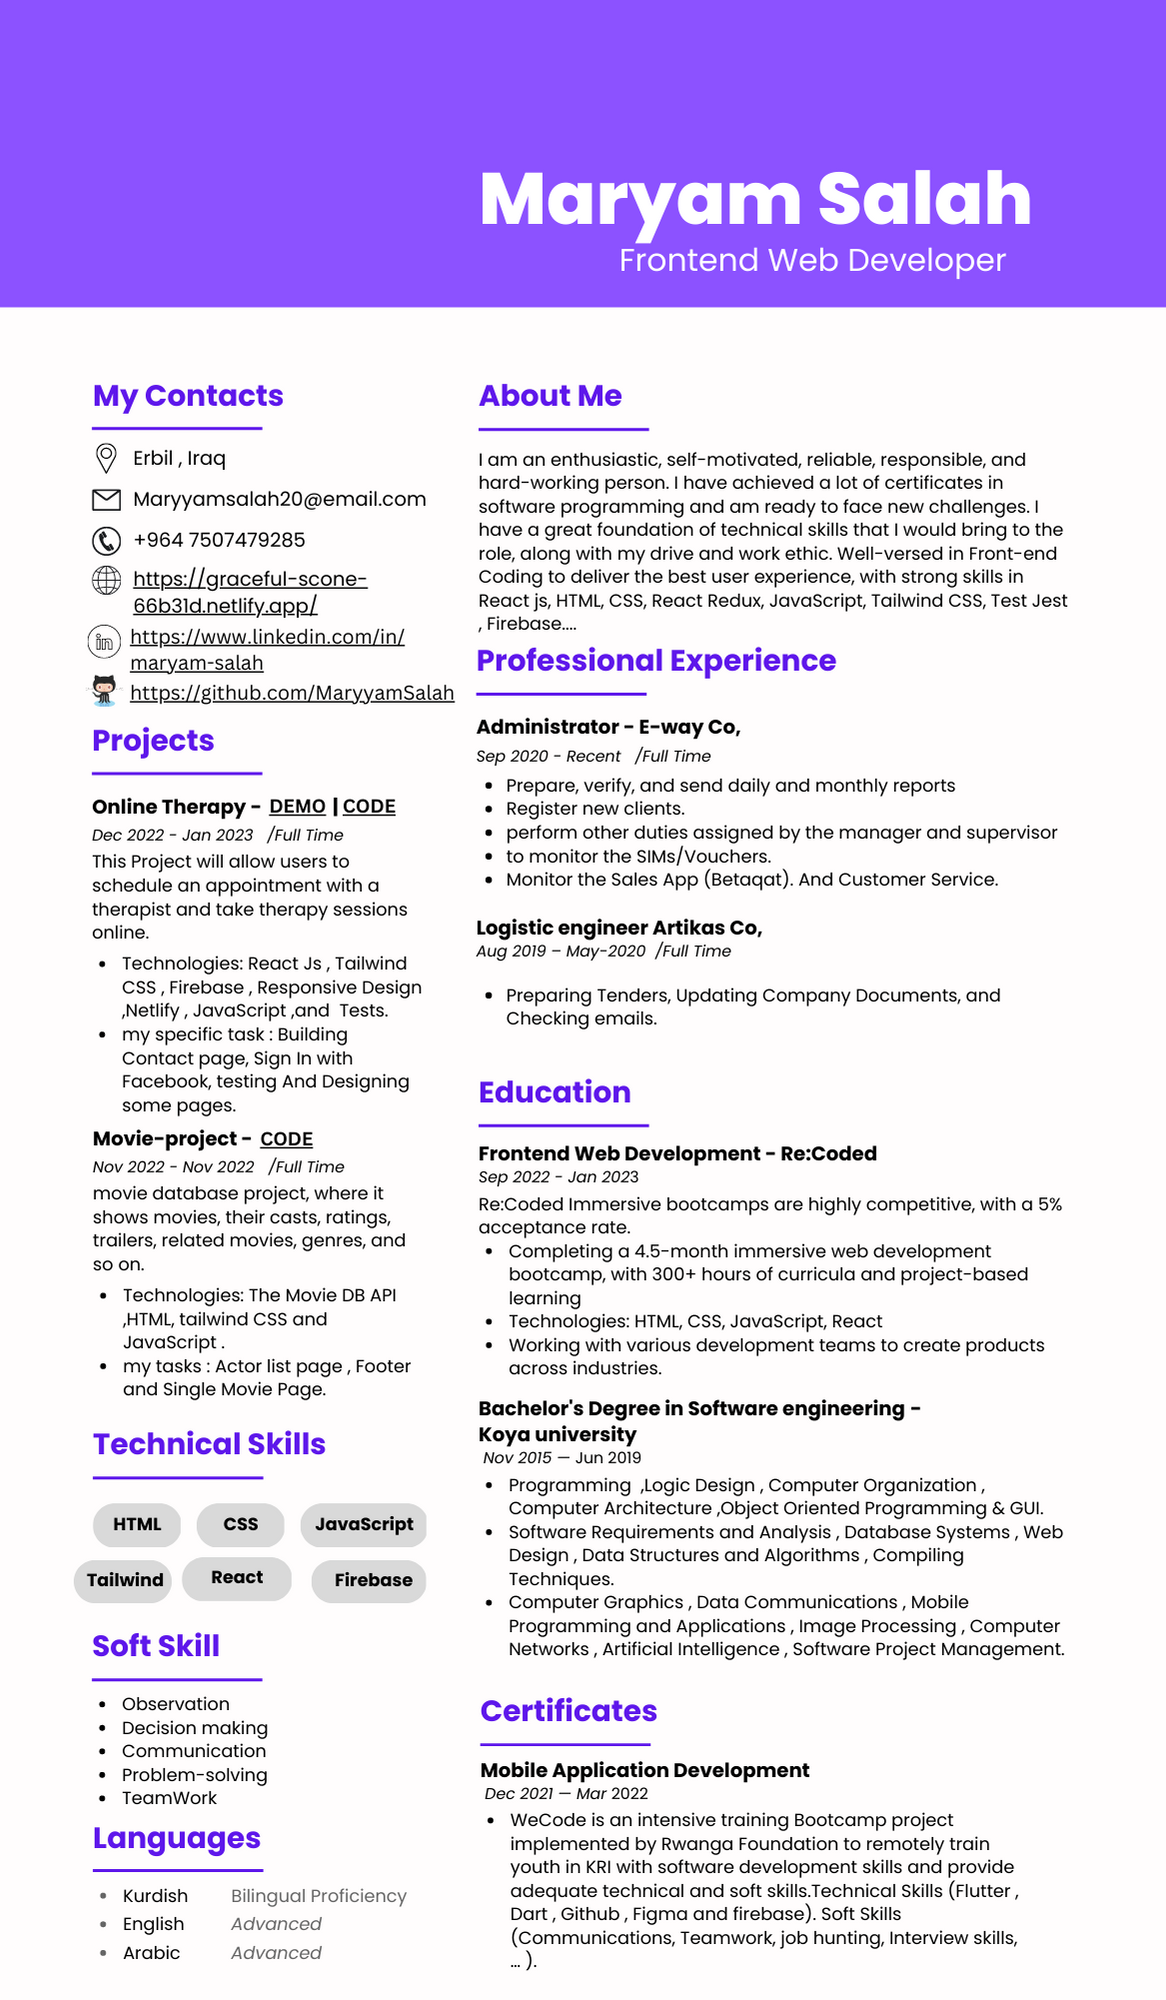
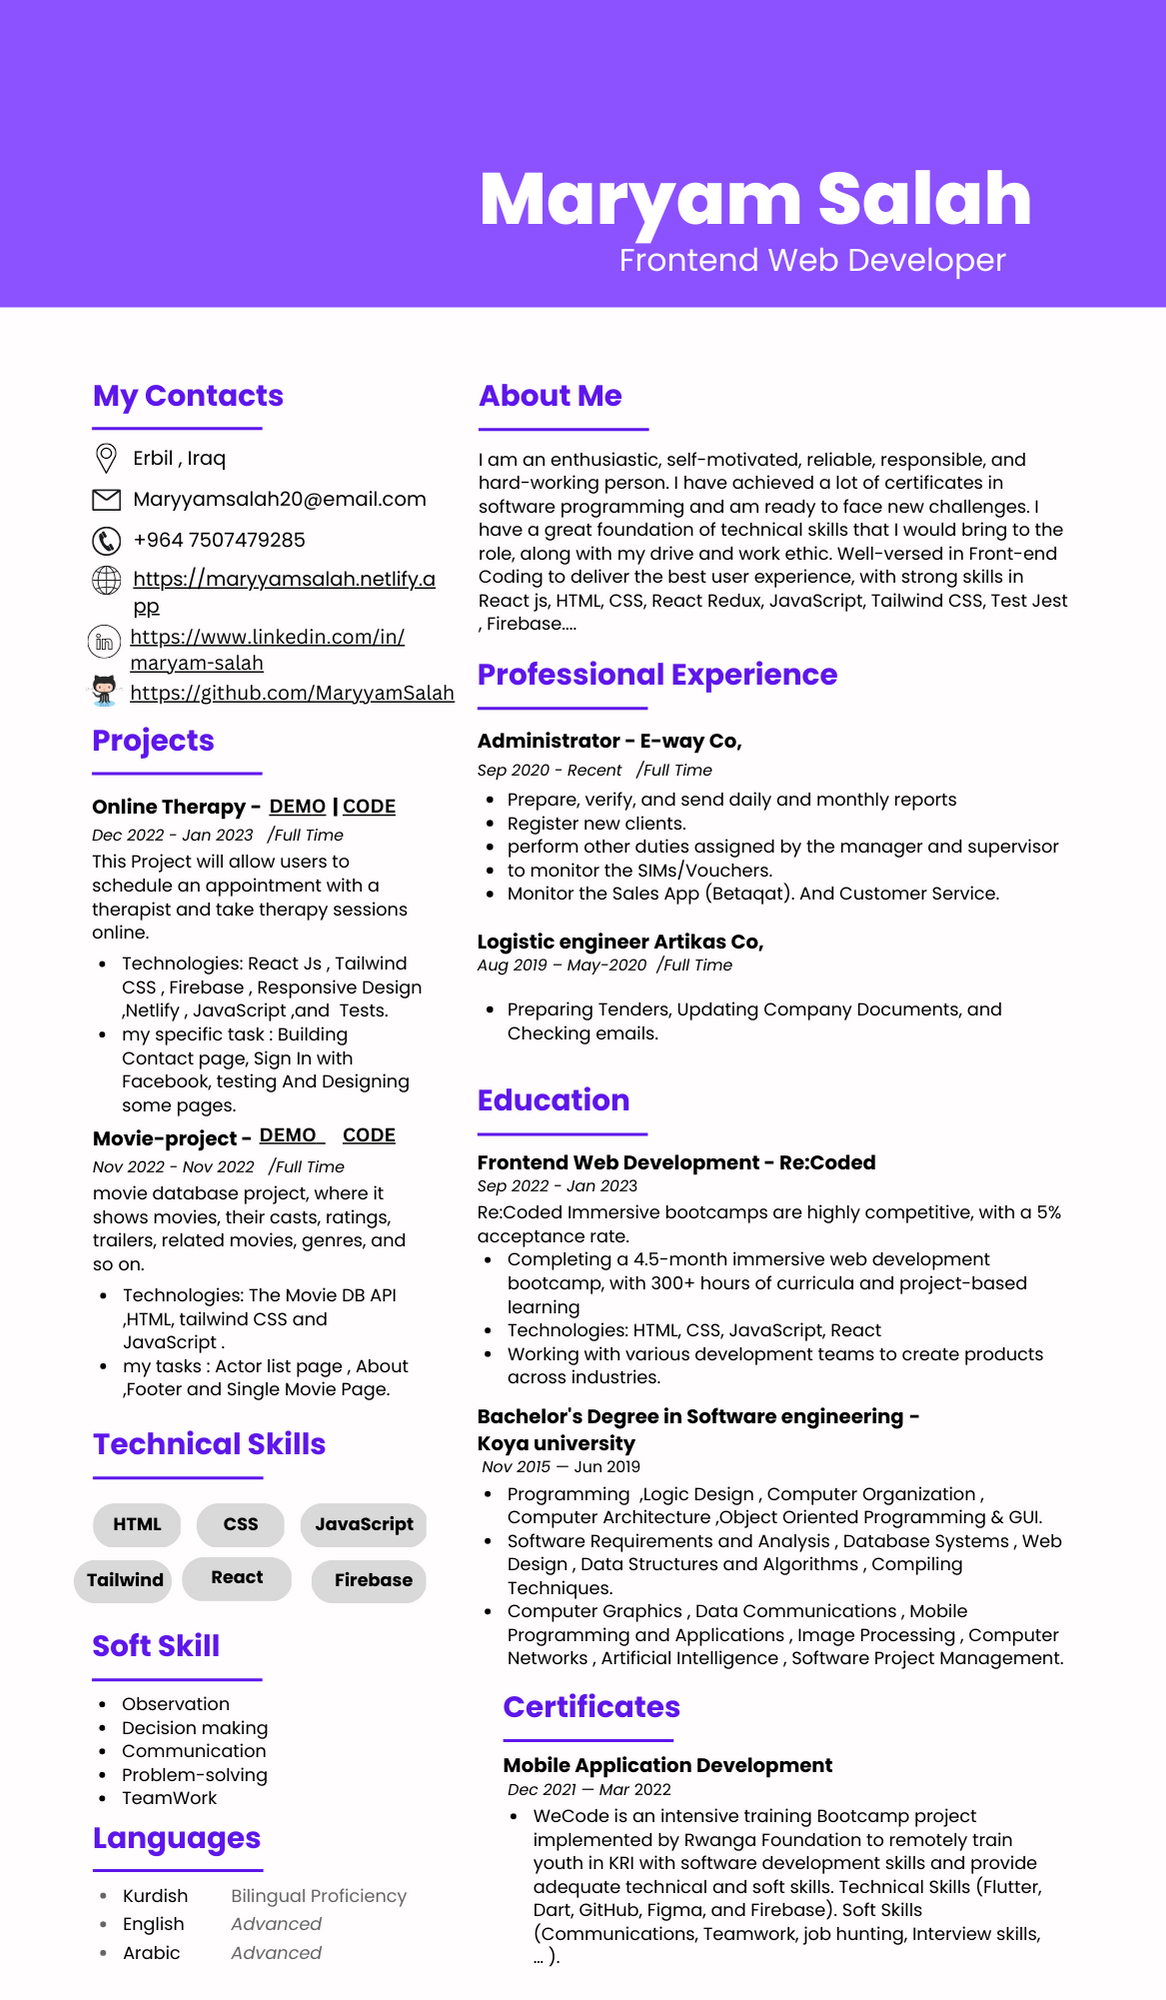
updating data

diff --git a/src/Components/Projects/projects.js b/src/Components/Projects/projects.js
@@ -17,7 +17,7 @@ const Projects = () => {
           img: secondImg,
           title: "Redux-Toolkit",
           desc: "This project, build a small blog app. It will fetch posts and comments from an API. I've created  with Redux Toolkit (RTK) and style it with Tailwid CSS.",
-          live: "",
+          live: "http://redux-toolkit-blogs.netlify.app",
           code: "https://github.com/MaryyamSalah/Redux-toolkit",
         },
         
@@ -25,8 +25,8 @@ const Projects = () => {
           img: thirdImg,
           title: "Movie API",
           desc: "This is a movie database project, where it shows movies, their casts, ratings, trailers, related movies, genres, and so on.This project used The Movie DB API: https://api.themoviedb.org/3 .Build with javaScript and Tailwind CSS ",
-          live: "",
-          code: "https://github.com/daliaJR/movie-project",
+          live: "http://movies-api-fetch.netlify.app",
+          code: "https://github.com/hudahamid/movie-project",
         },
       ];
 
